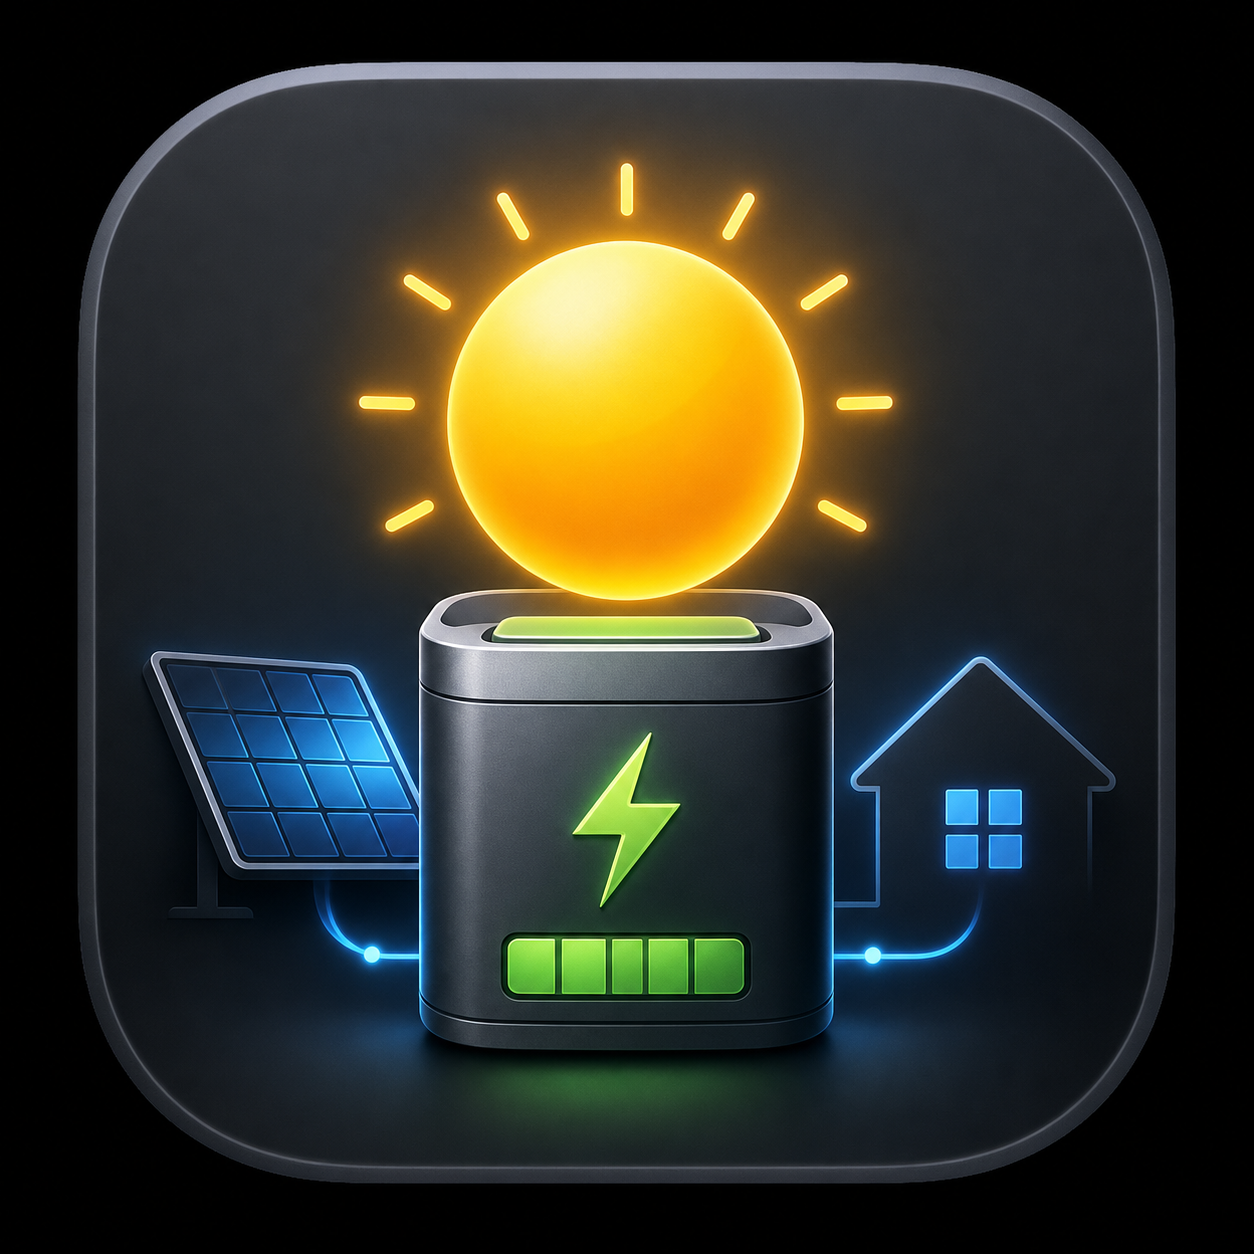
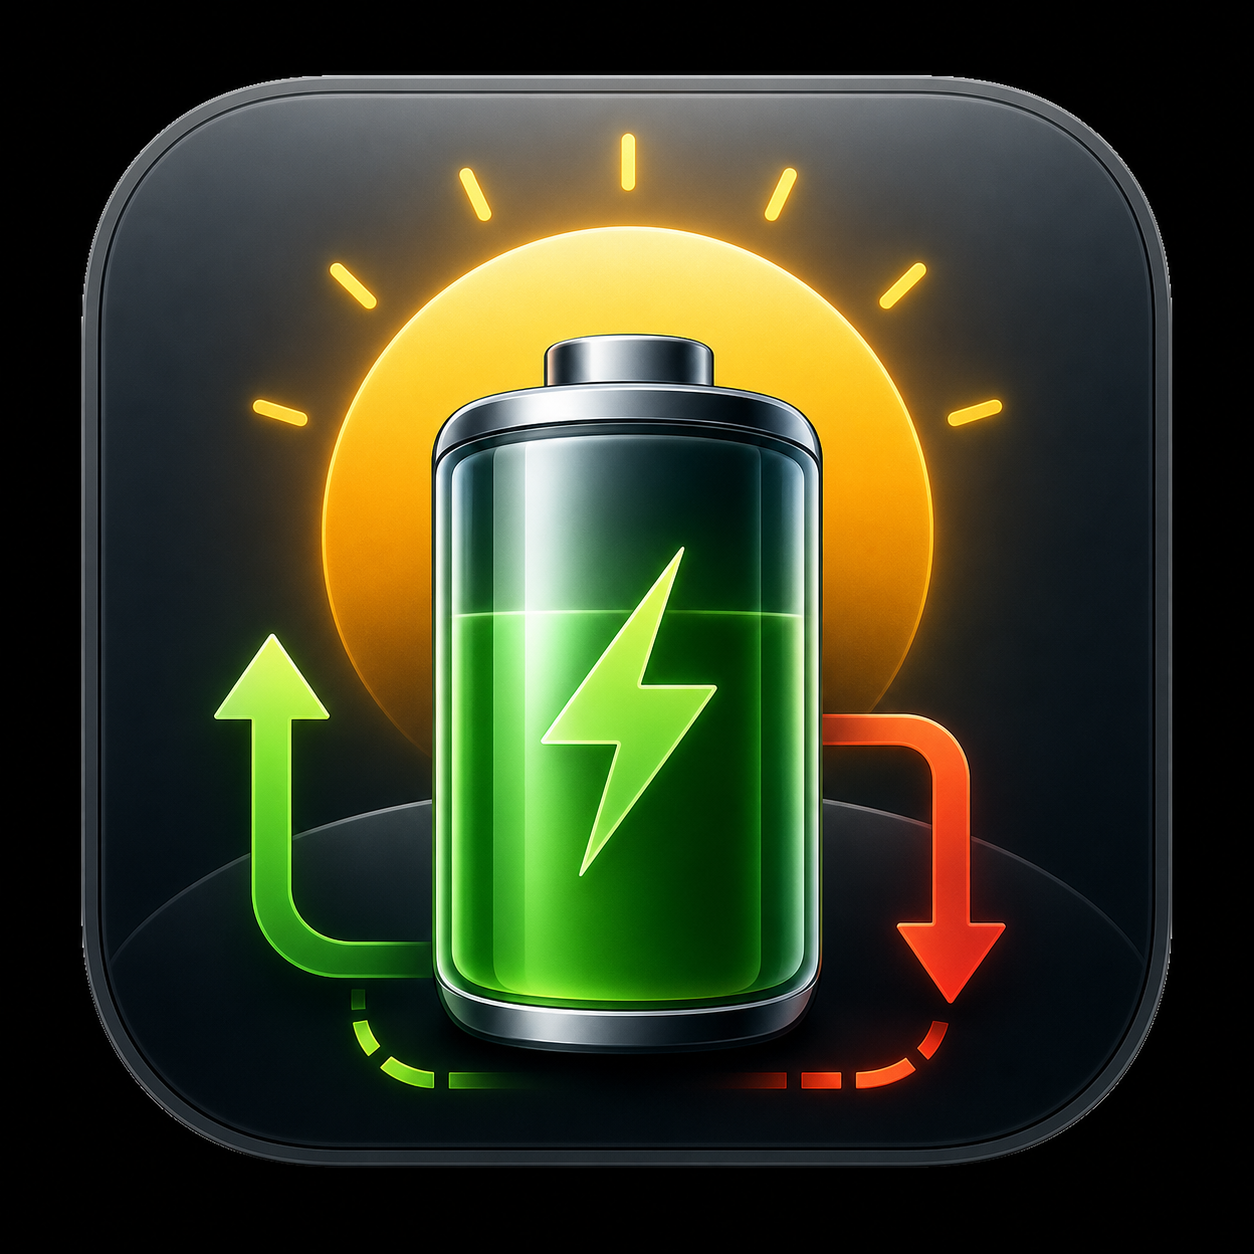
Release 0.1.7

diff --git a/Sources/SolixBar/DesktopWidgetWindowController.swift b/Sources/SolixBar/DesktopWidgetWindowController.swift
@@ -148,9 +148,11 @@ final class DesktopWidgetView: NSView {
             visibleMetrics: AppSettings.shared.graphMetrics,
             size: NSSize(width: 342, height: 150)
         )
-        let resizeHandle = WidgetResizeHandleView()
+        let rightResizeHandle = WidgetResizeHandleView(zone: .right)
+        let bottomResizeHandle = WidgetResizeHandleView(zone: .bottom)
+        let cornerResizeHandle = WidgetResizeHandleView(zone: .bottomRight)
 
-        for view in [title, subtitle, statusPill, battery, solar, grid, graph, resizeHandle] {
+        for view in [title, subtitle, statusPill, battery, solar, grid, graph, rightResizeHandle, bottomResizeHandle, cornerResizeHandle] {
             view.translatesAutoresizingMaskIntoConstraints = false
             addSubview(view)
         }
@@ -187,10 +189,20 @@ final class DesktopWidgetView: NSView {
             graph.trailingAnchor.constraint(equalTo: trailingAnchor, constant: -24),
             graph.bottomAnchor.constraint(equalTo: bottomAnchor, constant: -28),
 
-            resizeHandle.trailingAnchor.constraint(equalTo: trailingAnchor, constant: -8),
-            resizeHandle.bottomAnchor.constraint(equalTo: bottomAnchor, constant: -8),
-            resizeHandle.widthAnchor.constraint(equalToConstant: 24),
-            resizeHandle.heightAnchor.constraint(equalToConstant: 24)
+            rightResizeHandle.topAnchor.constraint(equalTo: topAnchor, constant: 72),
+            rightResizeHandle.trailingAnchor.constraint(equalTo: trailingAnchor),
+            rightResizeHandle.bottomAnchor.constraint(equalTo: bottomAnchor, constant: -34),
+            rightResizeHandle.widthAnchor.constraint(equalToConstant: 18),
+
+            bottomResizeHandle.leadingAnchor.constraint(equalTo: leadingAnchor, constant: 28),
+            bottomResizeHandle.trailingAnchor.constraint(equalTo: trailingAnchor, constant: -34),
+            bottomResizeHandle.bottomAnchor.constraint(equalTo: bottomAnchor),
+            bottomResizeHandle.heightAnchor.constraint(equalToConstant: 18),
+
+            cornerResizeHandle.trailingAnchor.constraint(equalTo: trailingAnchor, constant: -7),
+            cornerResizeHandle.bottomAnchor.constraint(equalTo: bottomAnchor, constant: -7),
+            cornerResizeHandle.widthAnchor.constraint(equalToConstant: 28),
+            cornerResizeHandle.heightAnchor.constraint(equalToConstant: 28)
         ])
     }
 
@@ -417,14 +429,27 @@ fileprivate enum WidgetResizeZone {
     }
 }
 
-final class WidgetResizeHandleView: NSView {
+fileprivate final class WidgetResizeHandleView: NSView {
+    private let zone: WidgetResizeZone
     private var startMouseLocation = NSPoint.zero
     private var startFrame = NSRect.zero
+
+    init(zone: WidgetResizeZone) {
+        self.zone = zone
+        super.init(frame: .zero)
+        wantsLayer = true
+        layer?.backgroundColor = NSColor.clear.cgColor
+        toolTip = WidgetResizeHandleView.tooltip(for: zone)
+    }
+
+    required init?(coder: NSCoder) {
+        fatalError("init(coder:) has not been implemented")
+    }
 
     override var acceptsFirstResponder: Bool { true }
 
     override func resetCursorRects() {
-        addCursorRect(bounds, cursor: .resizeUpDown)
+        addCursorRect(bounds, cursor: zone.includesRight && !zone.includesBottom ? .resizeLeftRight : .resizeUpDown)
     }
 
     override func mouseDown(with event: NSEvent) {
@@ -438,20 +463,66 @@ final class WidgetResizeHandleView: NSView {
             window: window,
             from: startFrame,
             mouseStart: startMouseLocation,
-            zone: .bottomRight
+            zone: zone
         )
     }
 
     override func draw(_ dirtyRect: NSRect) {
         super.draw(dirtyRect)
-        let color = NSColor.secondaryLabelColor.withAlphaComponent(0.65)
+        let color = NSColor.secondaryLabelColor.withAlphaComponent(0.72)
         color.setStroke()
-        for offset in stride(from: CGFloat(6), through: CGFloat(16), by: 5) {
+        switch zone {
+        case .right:
+            drawRightGrip(color: color)
+        case .bottom:
+            drawBottomGrip(color: color)
+        case .bottomRight:
+            drawCornerGrip(color: color)
+        }
+    }
+
+    private func drawRightGrip(color: NSColor) {
+        color.setStroke()
+        for offset in stride(from: CGFloat(7), through: bounds.height - 7, by: 8) {
+            let path = NSBezierPath()
+            path.move(to: NSPoint(x: bounds.midX - 2, y: offset))
+            path.line(to: NSPoint(x: bounds.midX + 2, y: offset))
+            path.lineWidth = 1.4
+            path.stroke()
+        }
+    }
+
+    private func drawBottomGrip(color: NSColor) {
+        color.setStroke()
+        let center = bounds.midX
+        for offset in stride(from: CGFloat(-18), through: CGFloat(18), by: 8) {
+            let path = NSBezierPath()
+            path.move(to: NSPoint(x: center + offset, y: bounds.midY - 2))
+            path.line(to: NSPoint(x: center + offset, y: bounds.midY + 2))
+            path.lineWidth = 1.4
+            path.stroke()
+        }
+    }
+
+    private func drawCornerGrip(color: NSColor) {
+        color.setStroke()
+        for offset in stride(from: CGFloat(7), through: CGFloat(19), by: 5) {
             let path = NSBezierPath()
             path.move(to: NSPoint(x: bounds.maxX - offset, y: bounds.minY + 4))
             path.line(to: NSPoint(x: bounds.maxX - 4, y: bounds.minY + offset))
             path.lineWidth = 1.2
             path.stroke()
+        }
+    }
+
+    private static func tooltip(for zone: WidgetResizeZone) -> String {
+        switch zone {
+        case .right:
+            "Hier ziehen, um das Widget breiter zu machen."
+        case .bottom:
+            "Hier ziehen, um das Widget höher zu machen."
+        case .bottomRight:
+            "Hier ziehen, um das Widget größer zu machen."
         }
     }
 }

diff --git a/Sources/SolixBar/StatusController.swift b/Sources/SolixBar/StatusController.swift
@@ -371,9 +371,8 @@ final class StatusController: NSObject {
                 continue
             }
             if settings.showEnergyFlowArrows,
-               let flow = energyFlowArrow(for: metric, snapshot: snapshot),
-               let image = coloredSymbol(flow.symbol, color: flow.color, accessibilityDescription: flow.description) {
-                result.append(imageAttachment(image))
+               let flow = energyFlowText(for: metric, snapshot: snapshot) {
+                result.append(textAttachment(flow.text, color: flow.color, weight: .bold))
                 result.append(textAttachment(" "))
             }
             if settings.showMenuBarMetricSymbols,
@@ -394,19 +393,38 @@ final class StatusController: NSObject {
         let flows: [BarMetric] = [.solar, .batteryFlow, .grid]
         var didAppend = false
         for metric in flows {
-            guard let flow = energyFlowArrow(for: metric, snapshot: snapshot),
-                  let image = coloredSymbol(flow.symbol, color: flow.color, accessibilityDescription: flow.description) else {
+            guard let flow = energyFlowText(for: metric, snapshot: snapshot) else {
                 continue
             }
             if didAppend {
                 result.append(textAttachment(" "))
             }
-            result.append(imageAttachment(image))
+            result.append(textAttachment(flow.text, color: flow.color, weight: .bold))
             didAppend = true
         }
 
         if !didAppend {
             result.append(textAttachment("-", color: .secondaryLabelColor))
+        }
+    }
+
+    private func energyFlowText(for metric: BarMetric, snapshot: SolixSnapshot) -> (text: String, color: NSColor)? {
+        switch metric {
+        case .solar:
+            guard let watts = snapshot.solarWatts else { return nil }
+            return watts > 0 ? ("↓", productionColor(watts)) : ("↕", .systemGray)
+        case .grid:
+            guard let watts = snapshot.gridWatts else { return nil }
+            if watts > 0 { return ("↑", consumptionColor(watts)) }
+            if watts < 0 { return ("↓", storageColor(abs(watts))) }
+            return ("↕", .systemGray)
+        case .batteryFlow:
+            guard let watts = snapshot.batteryWatts else { return nil }
+            if watts > 0 { return ("↓", storageColor(watts)) }
+            if watts < 0 { return ("↑", consumptionColor(abs(watts))) }
+            return ("↕", .systemGray)
+        default:
+            return nil
         }
     }
 
@@ -449,11 +467,11 @@ final class StatusController: NSObject {
         return NSAttributedString(attachment: attachment)
     }
 
-    private func textAttachment(_ string: String, color: NSColor = .labelColor) -> NSAttributedString {
+    private func textAttachment(_ string: String, color: NSColor = .labelColor, weight: NSFont.Weight = .medium) -> NSAttributedString {
         NSAttributedString(
             string: string,
             attributes: [
-                .font: NSFont.monospacedDigitSystemFont(ofSize: round(13 * settings.menuBarScale), weight: .medium),
+                .font: NSFont.monospacedDigitSystemFont(ofSize: round(13 * settings.menuBarScale), weight: weight),
                 .foregroundColor: color
             ]
         )

diff --git a/Sources/SolixBar/HistoryGraphView.swift b/Sources/SolixBar/HistoryGraphView.swift
@@ -302,24 +302,33 @@ final class HistoryGraphView: NSView {
 
     private func drawLegend() {
         let y = bounds.maxY - 25
-        var x = max(120, bounds.width - CGFloat(visibleMetrics.count * 72))
+        var x = max(120, bounds.width - CGFloat(visibleMetrics.count * 82))
         if visibleMetrics.contains(.battery) {
-            drawLegendItem(title: "Akku", color: batteryColor, x: x, y: y)
-            x += 62
-        }
-        if visibleMetrics.contains(.solar) {
-            drawLegendItem(title: "Solar", color: solarColor, x: x, y: y)
+            drawLegendItem(title: "Akku", color: batteryColor, x: x, y: y, width: 58)
             x += 66
         }
+        if visibleMetrics.contains(.solar) {
+            drawLegendItem(title: "Solar", color: solarColor, x: x, y: y, width: 64)
+            x += 72
+        }
         if visibleMetrics.contains(.grid) {
-            drawLegendItem(title: "Netz", color: gridColor, x: x, y: y)
+            drawLegendItem(title: "Netz", color: gridColor, x: x, y: y, width: 58)
         }
     }
 
-    private func drawLegendItem(title: String, color: NSColor, x: CGFloat, y: CGFloat) {
+    private func drawLegendItem(title: String, color: NSColor, x: CGFloat, y: CGFloat, width: CGFloat) {
+        let badgeRect = NSRect(x: x - 7, y: y - 5, width: width, height: 20)
+        (color.withAlphaComponent(0.18).blended(withFraction: 0.20, of: graphBackground) ?? color.withAlphaComponent(0.18)).setFill()
+        NSBezierPath(roundedRect: badgeRect, xRadius: 7, yRadius: 7).fill()
+
+        color.withAlphaComponent(0.45).setStroke()
+        let border = NSBezierPath(roundedRect: badgeRect, xRadius: 7, yRadius: 7)
+        border.lineWidth = 1
+        border.stroke()
+
         color.setFill()
-        NSBezierPath(ovalIn: NSRect(x: x, y: y + 2, width: 8, height: 8)).fill()
-        drawText(title, at: NSPoint(x: x + 12, y: y - 1), font: .systemFont(ofSize: 11, weight: .semibold), color: .secondaryLabelColor)
+        NSBezierPath(ovalIn: NSRect(x: x, y: y + 1, width: 8, height: 8)).fill()
+        drawText(title, at: NSPoint(x: x + 12, y: y - 2), font: .systemFont(ofSize: 11, weight: .bold), color: color)
     }
 
     private func maxPowerValue() -> Int {

diff --git a/CHANGELOG.md b/CHANGELOG.md
@@ -2,6 +2,13 @@
 
 ## Unreleased
 
+## 0.1.7 - 2026-07-07
+
+- Replaced the app icon with the new energy-flow battery design.
+- Switched menu bar energy-flow indicators to clear text arrows that change direction by import, export, charging, and discharging.
+- Added visible right, bottom, and corner resize grips to the desktop widget.
+- Added colored label backgrounds to the graph legend.
+
 ## 0.1.6 - 2026-07-07
 
 - Made graph x-axis labels explicitly depend on the selected range.